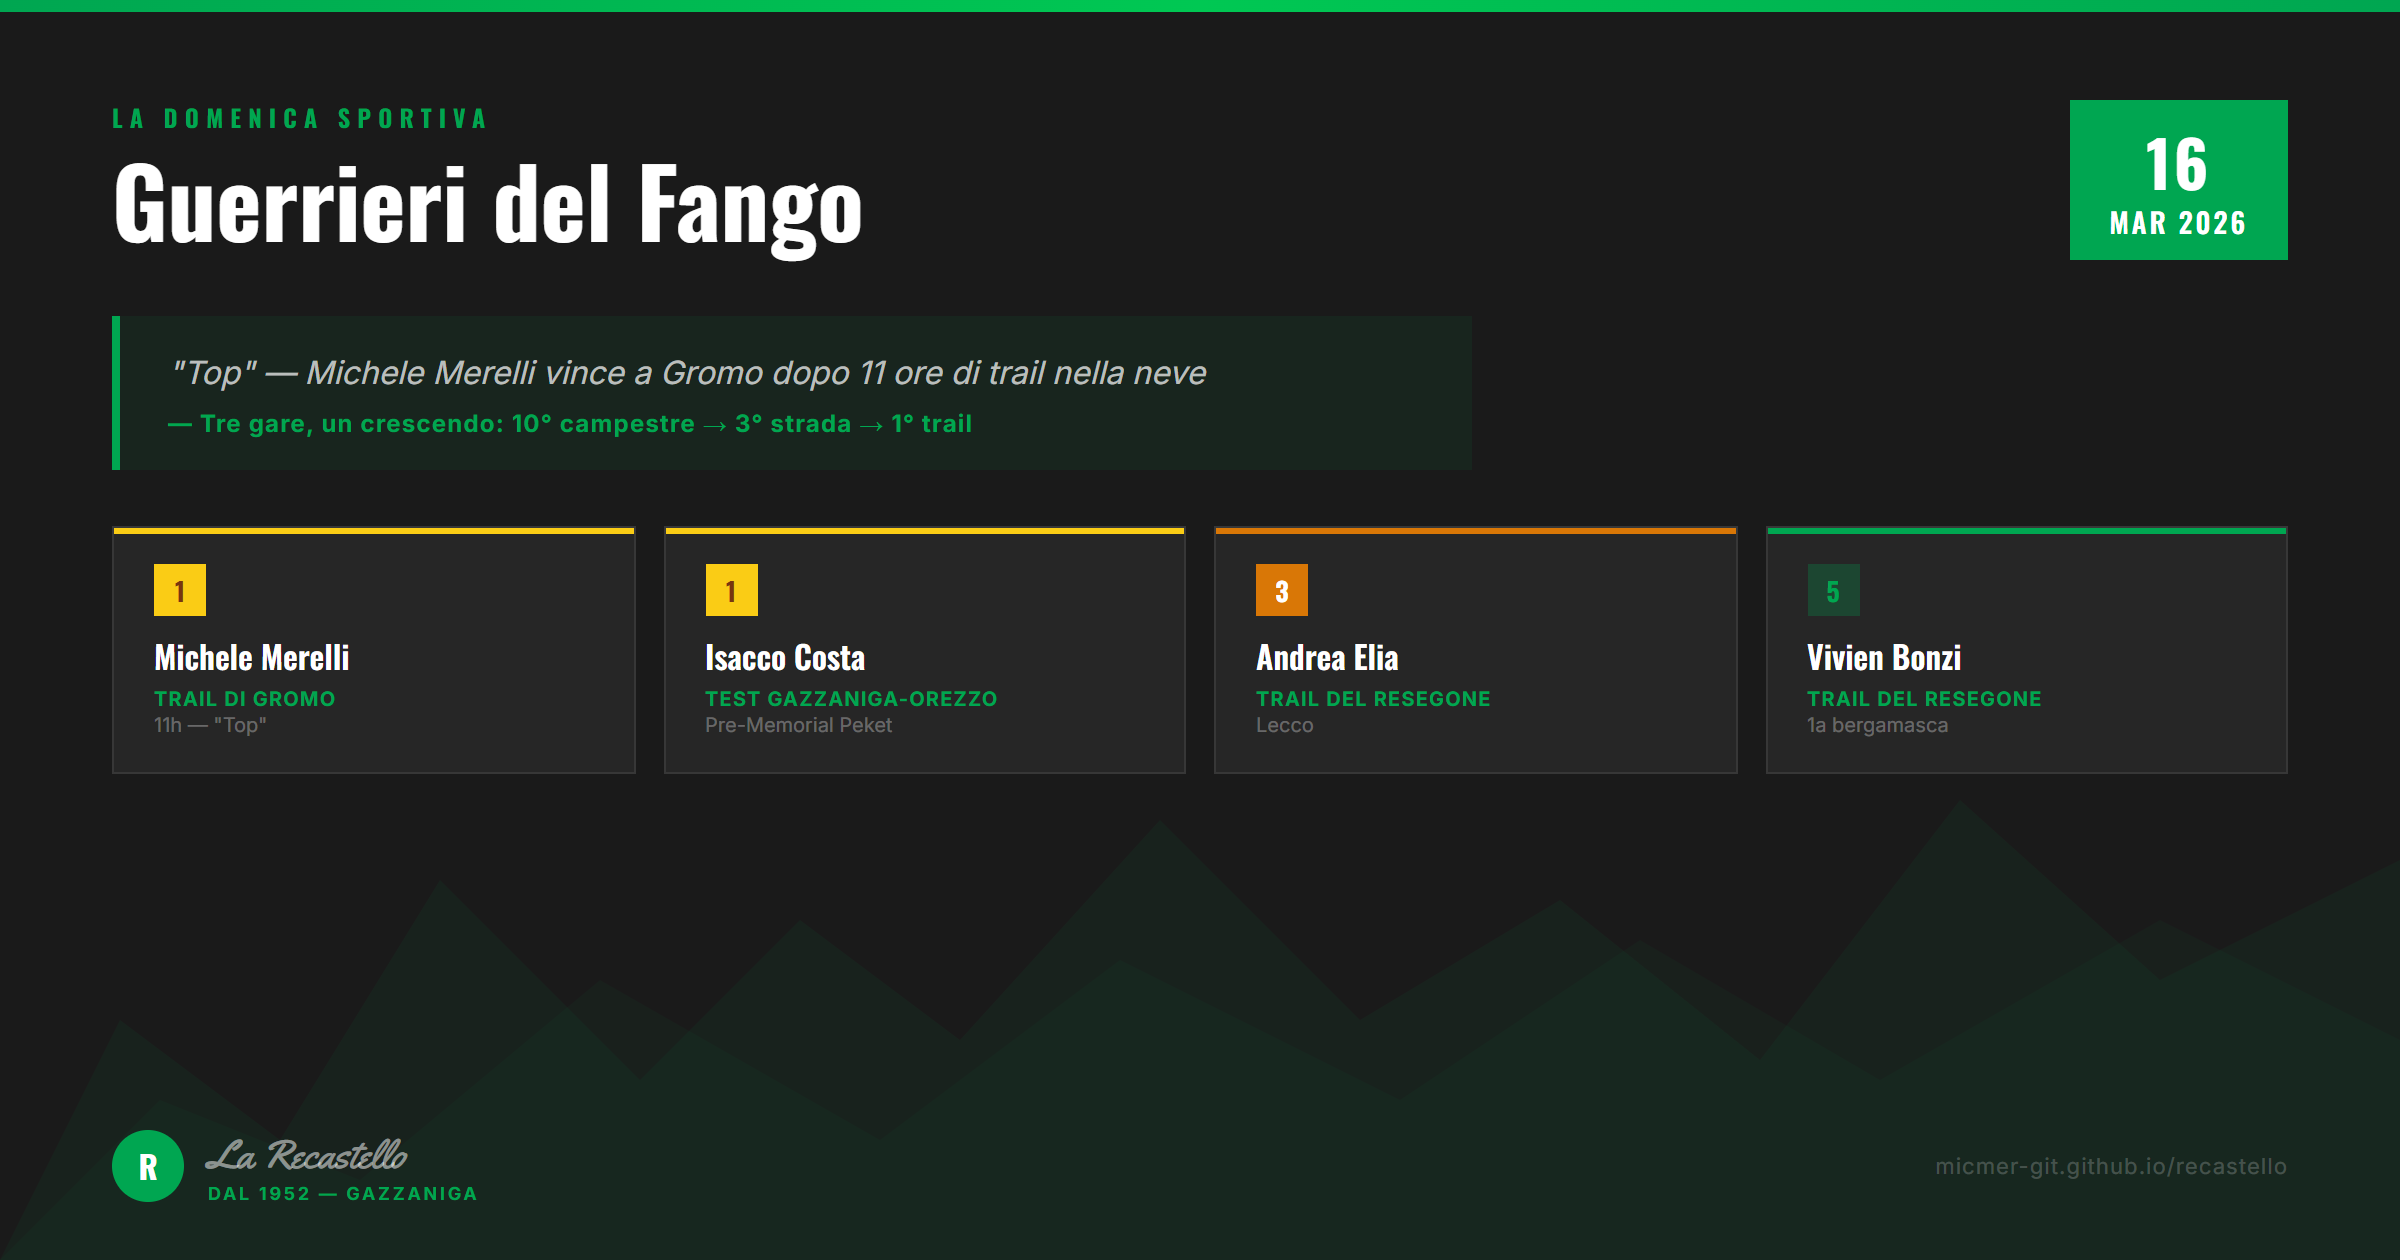
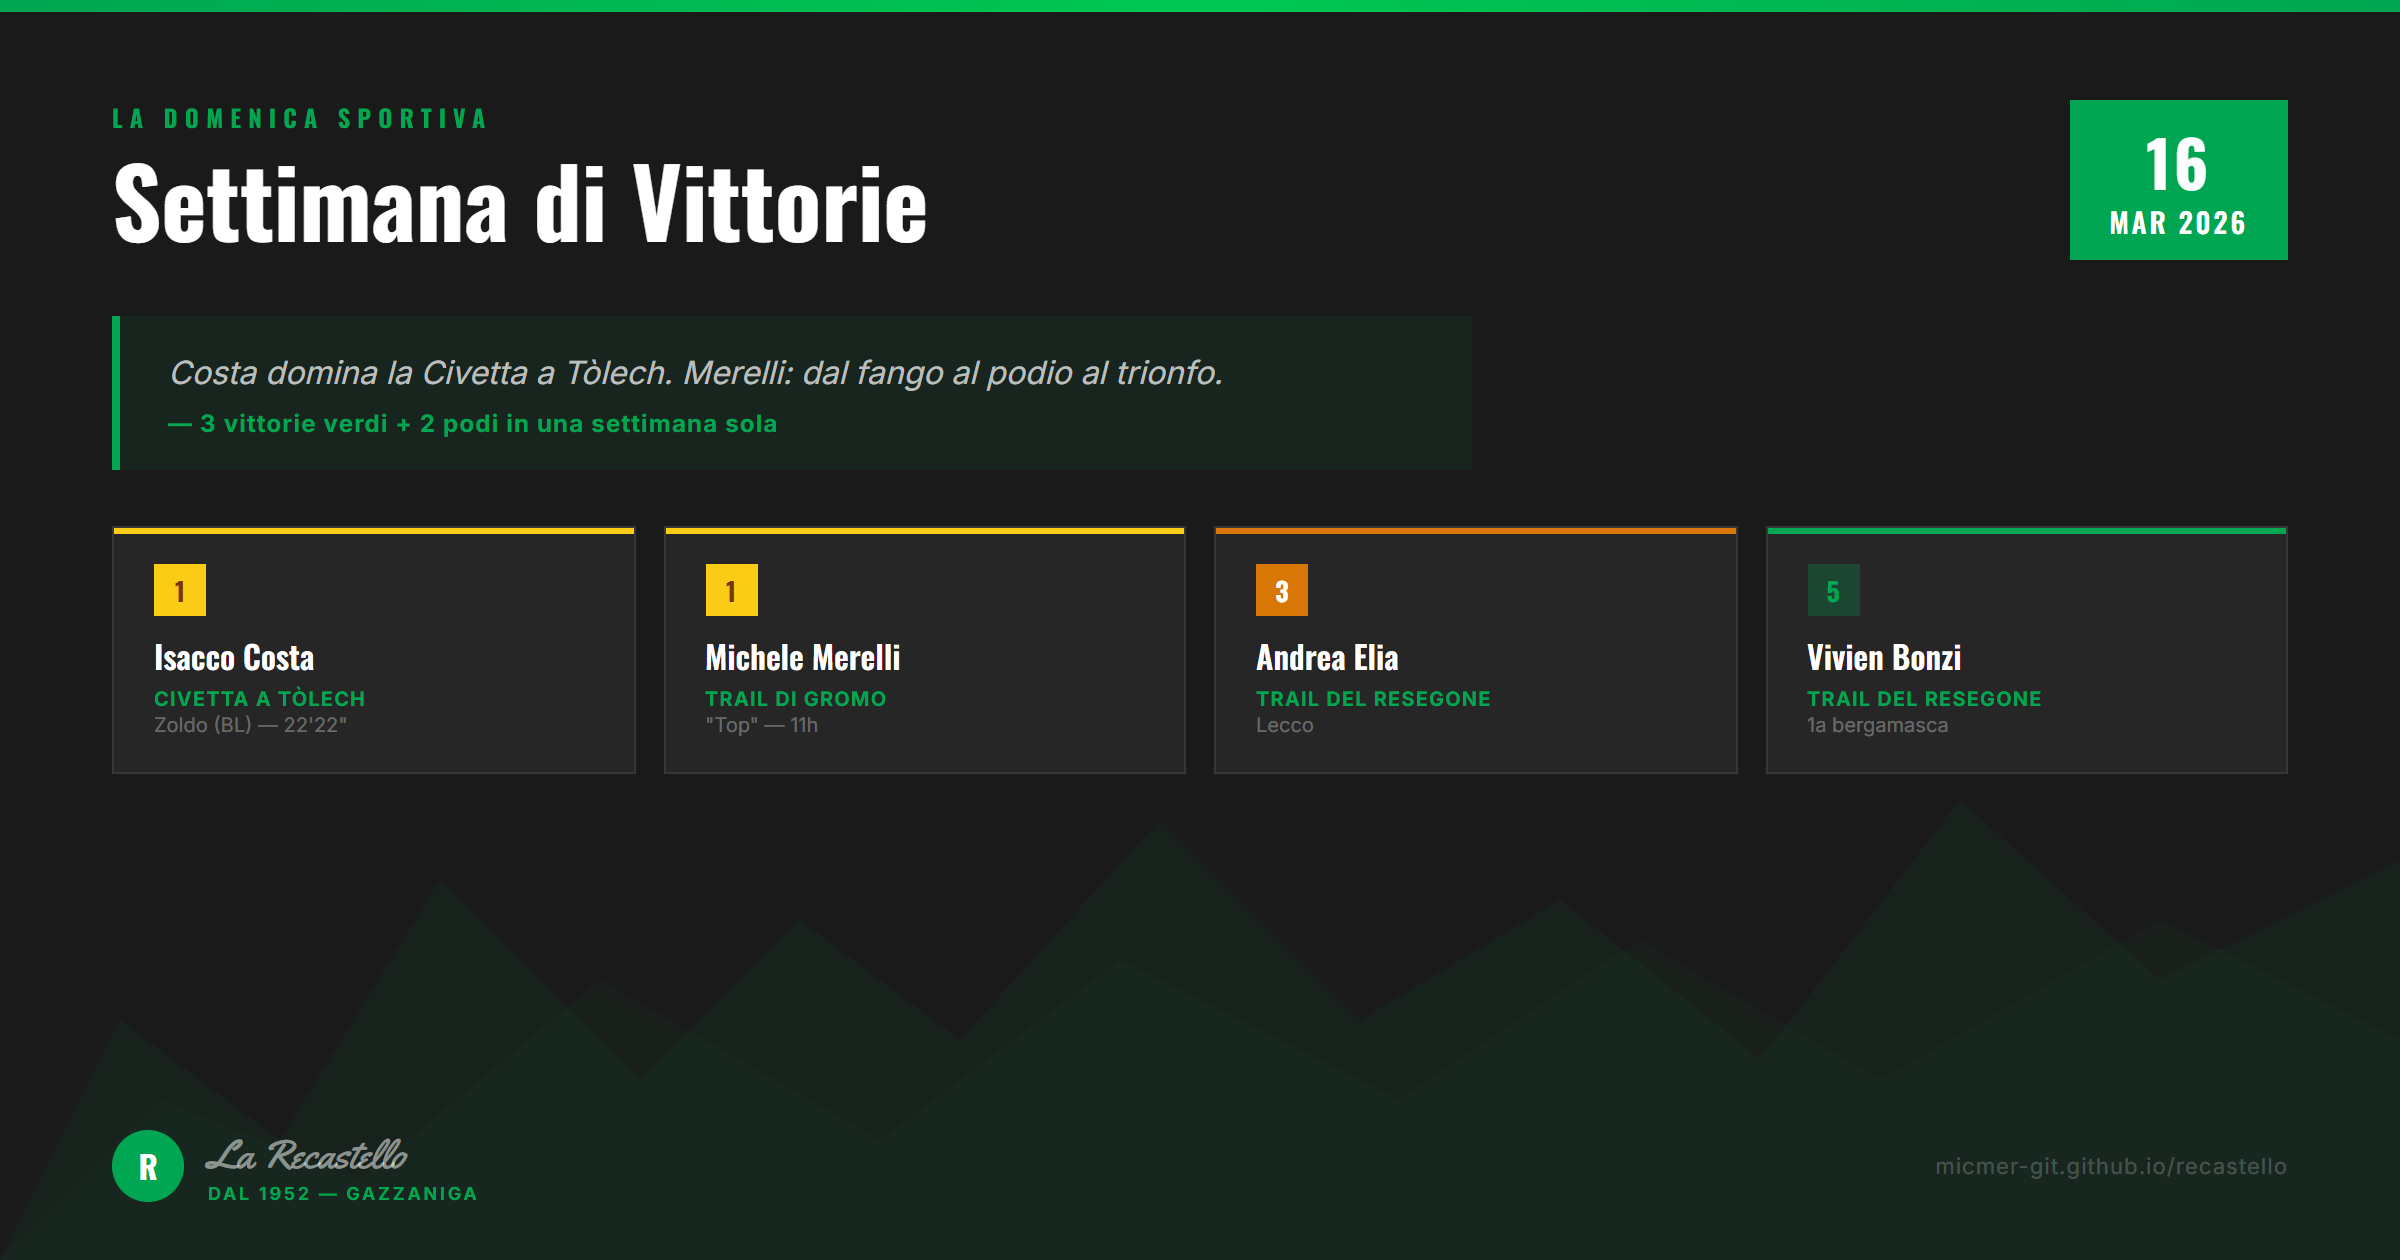
feat: Costa wins Civetta a Tòlech + know-how sync + blog v5
- Isacco Costa 1° Civetta a Tòlech (Zoldo, 22'22") added to results
- Blog post lead story: Costa's Dolomiti victory with narrative
- Blog now 7 results: Costa Civetta, Merelli Gromo/strada/campestre,
  Elia Resegone, Bonzi Resegone, Costa test
- Card v5: "Settimana di Vittorie" — 3 gold cards + 2 podiums
- Worker deployed with know-how sync (events/ + contacts/ markdown)
- Source: corribergamo.com article via openclaw ingestion

diff --git a/worker/index.js b/worker/index.js
@@ -1,16 +1,21 @@
 /**
- * Cloudflare Worker — Recastello Form Submissions → GitHub Issues
+ * Cloudflare Worker — Recastello Form Submissions → GitHub Issues + Know-How Sync
  *
  * Receives POST from contact/athlete forms, creates a GitHub Issue.
  * Photos are uploaded to the repo and linked in the issue.
+ * Know-How sync: extracts entities and saves structured markdown to micmer/recastello repo.
+ *
  * PAT stored as Worker secret (never exposed).
  *
  * Deploy: cd worker && npx wrangler deploy
- * Secret: npx wrangler secret put GITHUB_TOKEN
+ * Secrets: npx wrangler secret put GITHUB_TOKEN
+ *          npx wrangler secret put CALLMEBOT_APIKEY (optional)
  */
 
 const REPO_OWNER = 'micmer-git';
 const REPO_NAME = 'recastello';
+const KNOWHOW_REPO_OWNER = 'micmer';
+const KNOWHOW_REPO_NAME = 'recastello';
 const ALLOWED_ORIGINS = [
   'https://micmer-git.github.io',
   'http://localhost:4321',
@@ -62,6 +67,127 @@ async function uploadImage(env, filename, base64Data) {
   if (!res.ok) return null;
   const json = await res.json();
   return json.content?.download_url || null;
+}
+
+// ============ KNOW-HOW SYNC FUNCTIONS ============
+
+// Generate markdown for event/result
+function generateEventMarkdown(data) {
+  const now = new Date().toISOString().slice(0, 10);
+  const slug = (data.gara || 'evento').toLowerCase().replace(/[^a-z0-9]+/g, '-').replace(/^-+|-+$/g, '');
+  const tags = ['#corsa', '#risultato', '#larecastello'];
+  if (data.luogo) tags.push(`#${data.luogo.toLowerCase().replace(/\s+/g, '-')}`);
+
+  return `# ${data.gara || 'Evento'}
+
+**Data:** ${data.data || 'n/a'}  
+**Luogo:** ${data.luogo || 'n/a'}  
+**Fonte:** Form La Recastello (submission ${now})  
+**Atleta:** ${data.nome || ''} ${data.cognome || ''}
+
+---
+
+## Risultato
+
+| Campo | Valore |
+|-------|--------|
+| **Posizione** | ${data.posizione || 'n/a'} |
+| **Tempo** | ${data.tempo || 'n/a'} |
+
+---
+
+## Racconto
+
+${data.racconto || '_nessun racconto_'}
+
+---
+
+## Tag per riutilizzo
+
+${tags.map(t => `- \`${t}\``).join('\n')}
+
+---
+
+## Note editoriali
+
+[Da compilare: angoli interessanti per Domenica Sportiva, articoli, post social]
+
+---
+
+**Salvato:** ${now}  
+**Per:** La Recastello / Domenica Sportiva / contenuti sportivi
+`;
+}
+
+// Generate markdown for contact
+function generateContactMarkdown(data) {
+  const now = new Date().toISOString().slice(0, 10);
+  const tags = ['#contatto', '#larecastello'];
+  if (data.oggetto) tags.push(`#${data.oggetto.toLowerCase().replace(/\s+/g, '-')}`);
+
+  return `# Contatto: ${data.nome || ''} ${data.cognome || ''}
+
+**Email:** ${data.email || 'n/a'}  
+**Oggetto:** ${data.oggetto || 'n/a'}  
+**Fonte:** Form La Recastello (submission ${now})
+
+---
+
+## Messaggio
+
+${data.messaggio || '_nessun messaggio_'}
+
+---
+
+## Tag per riutilizzo
+
+${tags.map(t => `- \`${t}\``).join('\n')}
+
+---
+
+## Azioni suggerite
+
+- [ ] Rispondere via email
+- [ ] Archiviare in rubrica
+- [ ] Valutare per contenuti futuri
+
+---
+
+**Salvato:** ${now}
+`;
+}
+
+// Upload markdown to know-how repo
+async function uploadToKnowHow(env, filename, content, type) {
+  const path = type === 'risultato' ? `know-how/events/${filename}` : `know-how/contacts/${filename}`;
+  const res = await fetch(
+    `https://api.github.com/repos/${KNOWHOW_REPO_OWNER}/${KNOWHOW_REPO_NAME}/contents/${path}`,
+    {
+      method: 'PUT',
+      headers: {
+        Authorization: `Bearer ${env.GITHUB_TOKEN}`,
+        Accept: 'application/vnd.github+json',
+        'User-Agent': 'RecastelloKnowHowSync/1.0',
+        'Content-Type': 'application/json',
+      },
+      body: JSON.stringify({
+        message: `know-how: ${type} ${filename}`,
+        content: Buffer.from(content).toString('base64'),
+      }),
+    }
+  );
+  return res.ok;
+}
+
+// Sync to know-how (non-blocking, best-effort)
+async function syncToKnowHow(env, data, type) {
+  try {
+    const markdown = type === 'risultato' ? generateEventMarkdown(data) : generateContactMarkdown(data);
+    const filename = `${new Date().toISOString().slice(0, 10)}_${type}_${Date.now()}.md`;
+    await uploadToKnowHow(env, filename, markdown, type);
+  } catch (err) {
+    console.error('Know-how sync error:', err.message);
+  }
 }
 
 export default {
@@ -225,8 +351,11 @@ export default {
         }
       }
 
+      // Know-How sync (non-blocking, best-effort)
+      syncToKnowHow(env, data, type);
+
       return new Response(
-        JSON.stringify({ ok: true, issue: issue.number, url: issue.html_url, photos: uploadedPhotos }),
+        JSON.stringify({ ok: true, issue: issue.number, url: issue.html_url, photos: uploadedPhotos, knowHow: true }),
         { status: 201, headers: { ...corsHeaders(origin), 'Content-Type': 'application/json' } }
       );
 

diff --git a/src/data/site.js b/src/data/site.js
@@ -451,6 +451,8 @@ export const RESULTS_2024 = [
   { date: '2025-06-15', race: 'Campionato Italiano Staffetta (Casnigo)', athlete: 'Bianchi-Gaggi', position: 1, note: 'Staffetta donne oro', podium: true },
   { date: '2025-07-12', race: 'Campionati Mondiali (Galles)', athlete: 'Luca Magri', position: 1, note: '1° assoluto', podium: true },
   { date: '2025-07-12', race: 'Campionati Mondiali (Galles)', athlete: 'Beatrice Bianchi', position: 1, note: '1a assoluta', podium: true },
+  // 2026
+  { date: '2026-03-14', race: '1a Civetta a Tòlech', athlete: 'Isacco Costa', position: 1, note: '1° assoluto 22\'22"', podium: true },
 ];
 
 export function getAthleteResults(athleteName) {
@@ -574,9 +576,17 @@ export const BLOG_POSTS = [
     slug: '2026-03-16-domenica-sportiva',
     title: 'La Domenica Sportiva — 16 Marzo 2026',
     date: '2026-03-16',
-    intro: 'Tre gare, un crescendo. Michele Merelli apre il mese nel fango della campestre bergamasca, risale sul podio nella corsa su strada, e chiude con la vittoria a Gromo — undici ore di trail nella neve della Val Seriana. "Top", dice lui. E ha ragione. Nel frattempo, il Trail del Resegone e un test pre-Peket completano il quadro di un weekend verde Recastello.',
+    intro: 'Settimana di vittorie verdi. Isacco Costa domina la prima edizione della Civetta a Tolech sulle Dolomiti zoldane. Michele Merelli chiude un crescendo perfetto: dal fango della campestre al podio su strada, fino alla vittoria nel trail di Gromo. E poi il Resegone, il test pre-Peket — la Recastello sta preparando qualcosa di grosso per il 25 aprile.',
     image: '/recastello/img/blog/2026-03-16.png',
     results: [
+      {
+        athlete: 'Isacco Costa',
+        athleteId: 'isacco-costa',
+        race: '1a Civetta a Tòlech',
+        location: 'Zoldo (BL)',
+        text: 'Il campione italiano di corsa in montagna non si ferma. Isacco Costa vince la prima edizione assoluta della Civetta a Tolech — gara serale con le fiaccole sulle Dolomiti zoldane, partenza al tramonto e arrivo sotto le stelle. 22 minuti e 22 secondi di salita pura verso la cima, nel cuore del territorio ladino dove le montagne hanno nomi che suonano come preghiere. Una vittoria che conferma lo stato di forma eccezionale del due volte campione italiano in vista del Memorial Peket del 25 aprile.',
+        position: 1,
+      },
       {
         athlete: 'Michele Merelli',
         athleteId: 'michele-merelli',
